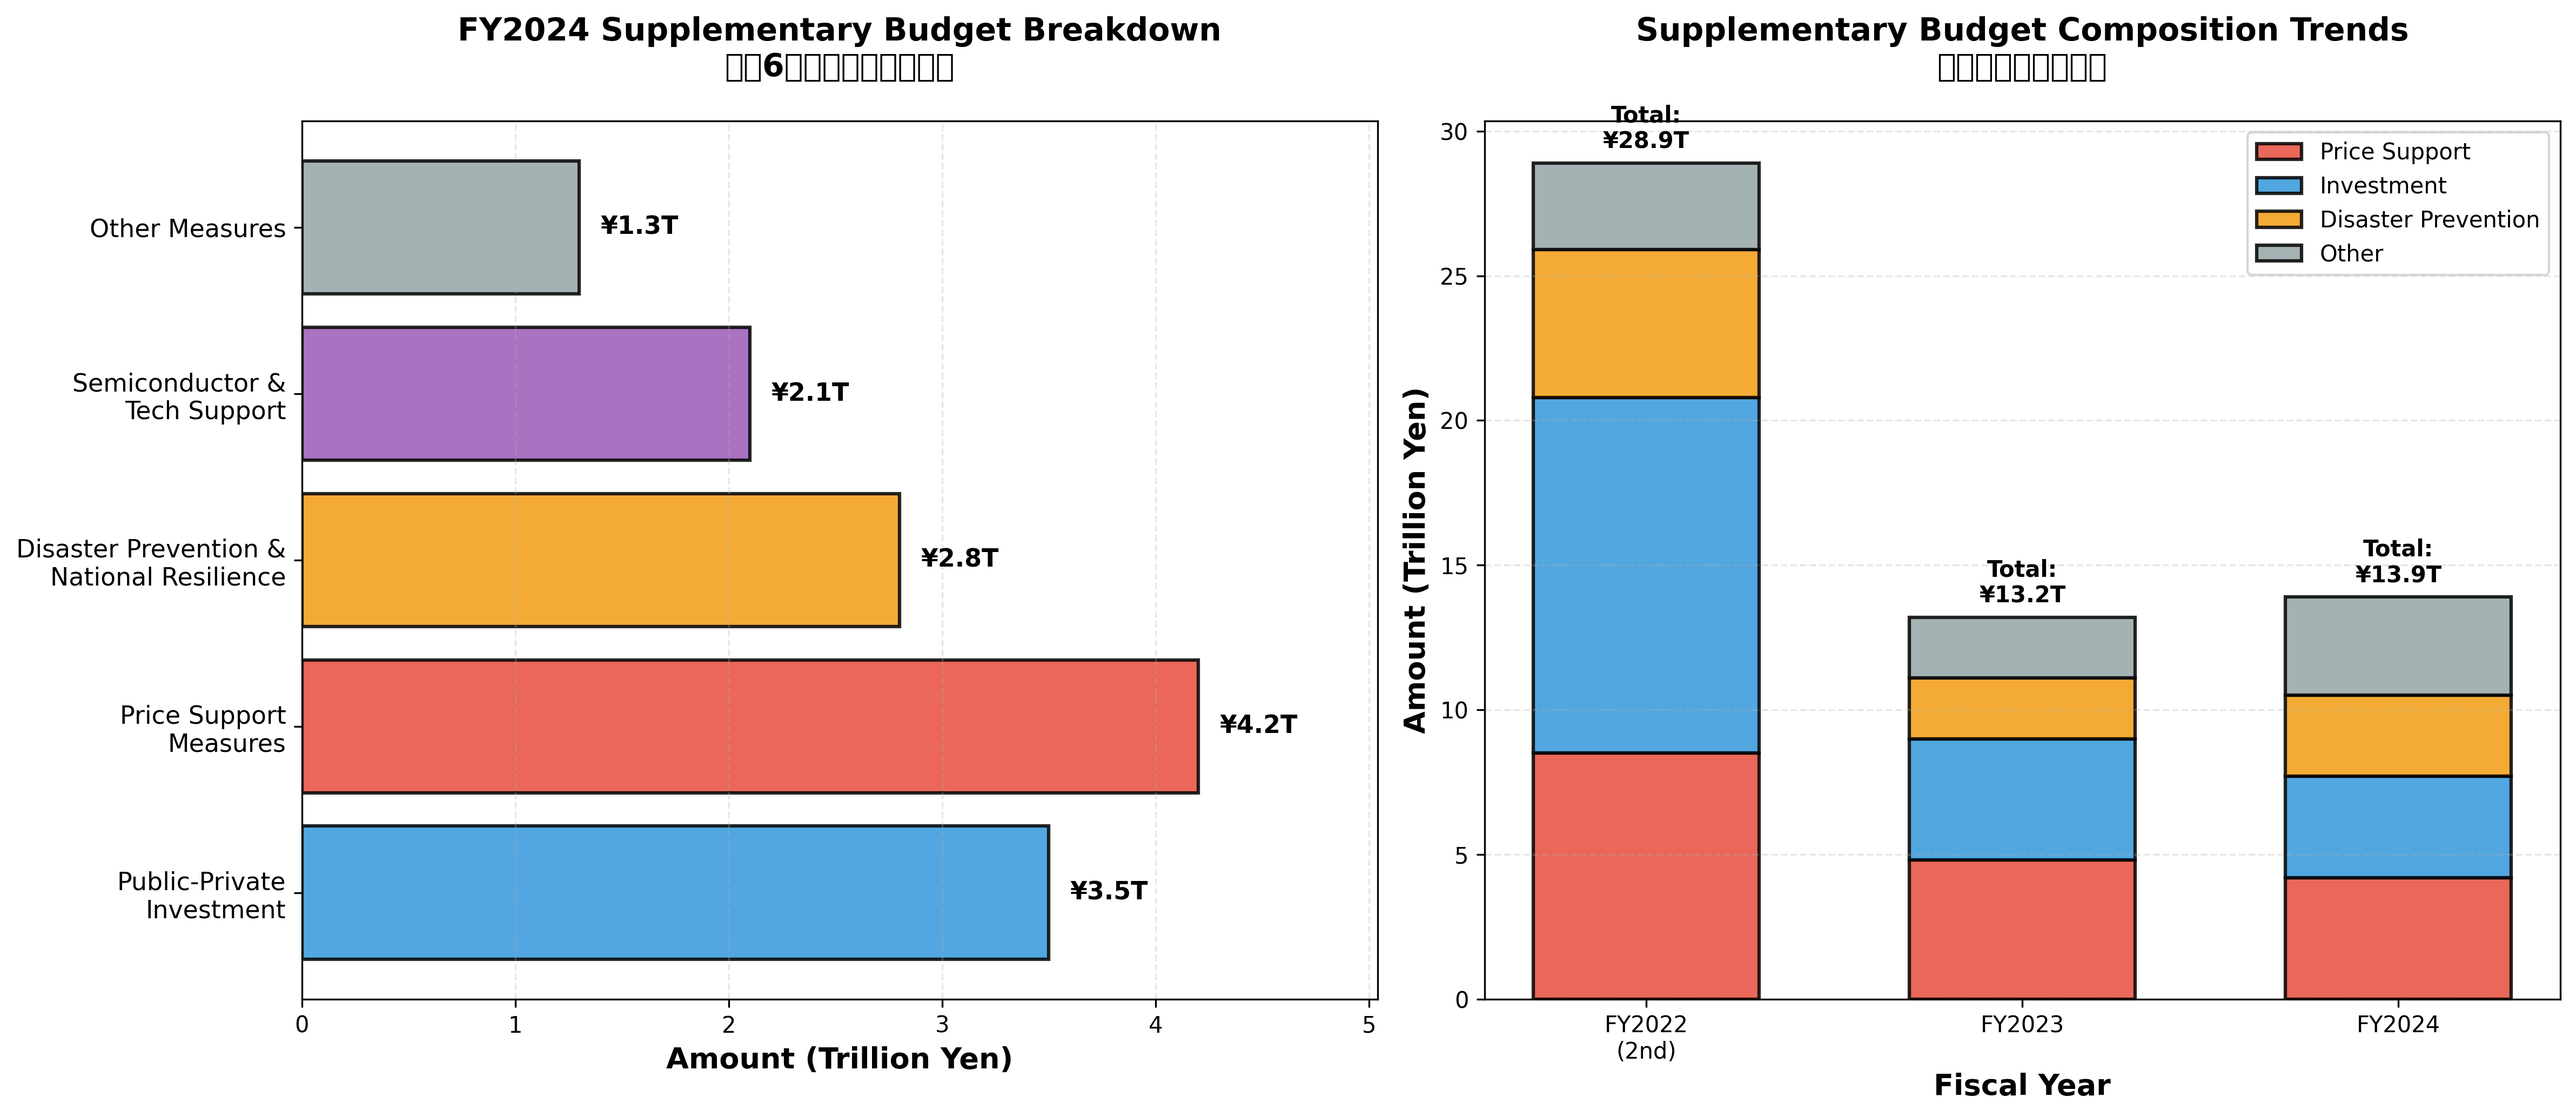
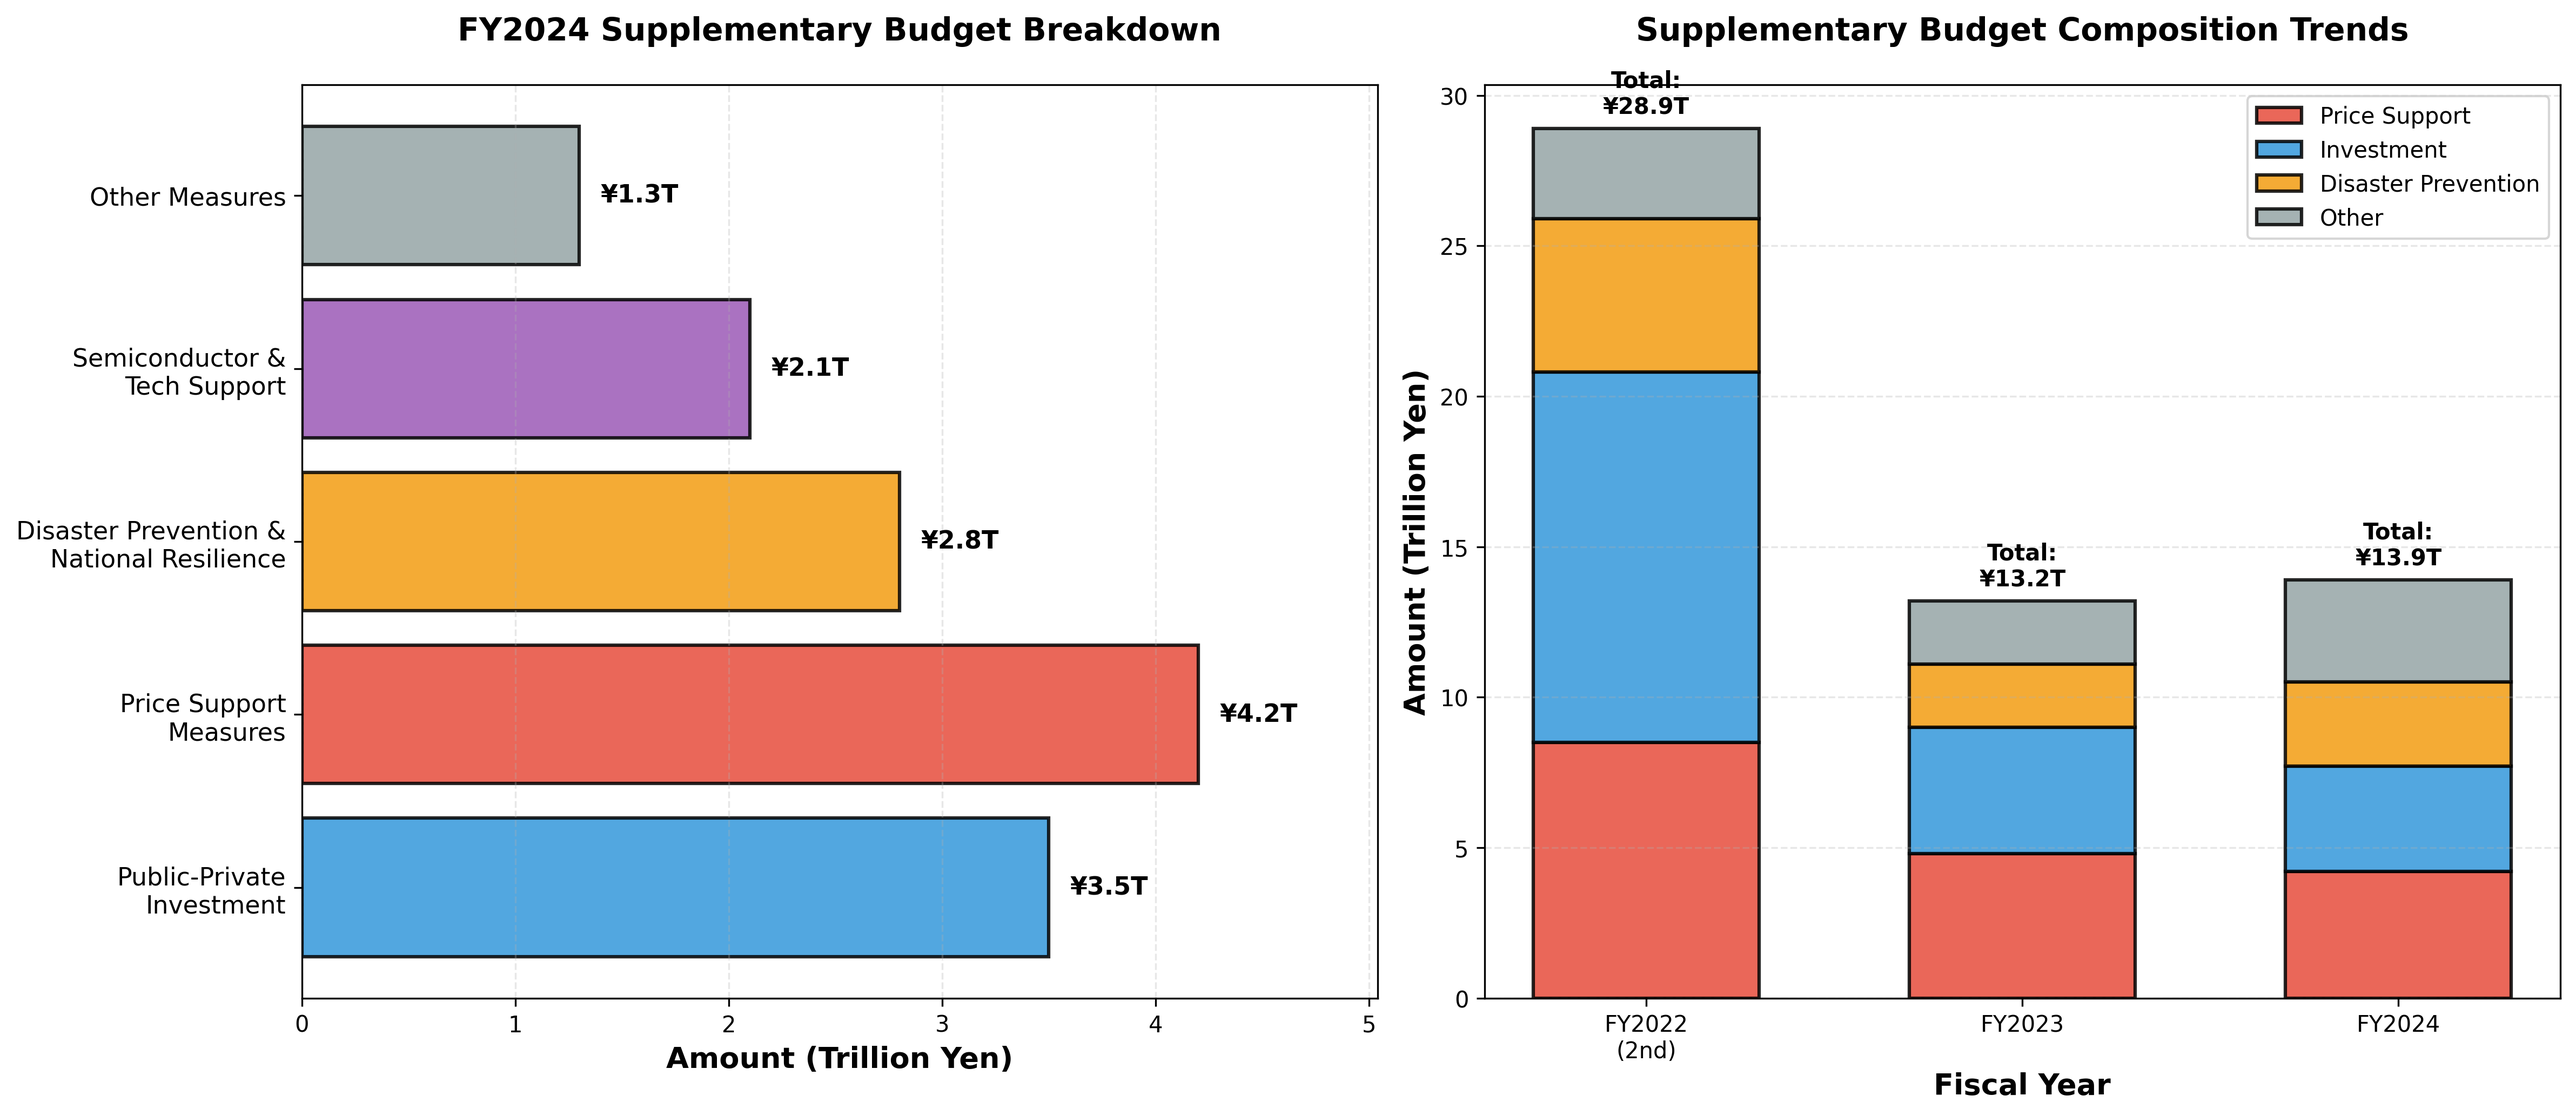
Update graphs to English version
- Remove Japanese text from graph titles to fix font rendering issues
- All graphs now display in English for better compatibility
- Update README to reflect English-only graphs
- Japanese analysis remains available in detailed report

diff --git a/最近の補正予算/04_基金分析.py b/最近の補正予算/04_基金分析.py
@@ -24,7 +24,7 @@ wedges, texts, autotexts = ax1.pie(fund_amounts, labels=fund_names,
                                      autopct=lambda pct: f'{pct:.1f}%\n(¥{pct*sum(fund_amounts)/100:.2f}T)',
                                      colors=fund_colors, startangle=45,
                                      textprops={'fontsize': 9, 'fontweight': 'bold'})
-ax1.set_title('Major Funds Established Through Supplementary Budgets\n補正予算で設置された主要基金',
+ax1.set_title('Major Funds Established Through Supplementary Budgets',
               fontsize=14, fontweight='bold', pad=20)
 
 # Right: Fund characteristics - execution timeline
@@ -59,7 +59,7 @@ for bar, size in zip(bars2, avg_size):
 ax2.set_ylabel('Number of Funds', fontsize=13, fontweight='bold', color='#3498DB')
 ax2_twin.set_ylabel('Average Size (Trillion Yen)', fontsize=13, fontweight='bold', color='#E74C3C')
 ax2.set_xlabel('Fund Type', fontsize=13, fontweight='bold')
-ax2.set_title('Fund Characteristics by Execution Timeline\n基金の執行期間別特性',
+ax2.set_title('Fund Characteristics by Execution Timeline',
               fontsize=14, fontweight='bold', pad=20)
 ax2.set_xticks(x)
 ax2.set_xticklabels(fund_types)

diff --git a/最近の補正予算/02_執行状況分析.py b/最近の補正予算/02_執行状況分析.py
@@ -13,7 +13,7 @@ fig, (ax1, ax2) = plt.subplots(1, 2, figsize=(16, 7))
 wedges, texts, autotexts = ax1.pie(amounts, labels=categories, autopct='%1.1f%%',
                                      colors=colors, startangle=90,
                                      textprops={'fontsize': 12, 'fontweight': 'bold'})
-ax1.set_title('FY2022 Supplementary Budget Execution Status\n(¥18.86T Economic Stimulus Projects)\n令和4年度補正予算執行状況',
+ax1.set_title('FY2022 Supplementary Budget Execution Status\n(¥18.86T Economic Stimulus Projects)',
               fontsize=14, fontweight='bold', pad=20)
 
 # Add amount labels
@@ -43,7 +43,7 @@ for i, (e, c) in enumerate(zip(executed_rates, carryover_rates)):
 
 ax2.set_ylabel('Percentage (%)', fontsize=13, fontweight='bold')
 ax2.set_xlabel('Fiscal Year', fontsize=13, fontweight='bold')
-ax2.set_title('Execution vs Carryover Rates Trend\n執行率と繰越率の推移',
+ax2.set_title('Execution vs Carryover Rates Trend',
               fontsize=14, fontweight='bold', pad=20)
 ax2.set_xticks(x)
 ax2.set_xticklabels(years)

diff --git a/最近の補正予算/05_残高推移.py b/最近の補正予算/05_残高推移.py
@@ -26,7 +26,7 @@ ax1.annotate('Recovery\nPhase', xy=(2021, 136.5), xytext=(2021.5, 150),
 
 ax1.set_ylabel('Cumulative Amount (Trillion Yen)', fontsize=13, fontweight='bold')
 ax1.set_xlabel('Fiscal Year', fontsize=13, fontweight='bold')
-ax1.set_title('Cumulative Supplementary Budget and Execution\n累積補正予算額と執行額',
+ax1.set_title('Cumulative Supplementary Budget and Execution',
               fontsize=15, fontweight='bold', pad=20)
 ax1.legend(loc='upper left', fontsize=11)
 ax1.grid(True, alpha=0.3, linestyle='--')
@@ -47,7 +47,7 @@ ax2.axhline(y=15, color='red', linestyle='--', linewidth=2, alpha=0.6, label='Hi
 
 ax2.set_ylabel('Unexecuted Balance (Trillion Yen)', fontsize=13, fontweight='bold')
 ax2.set_xlabel('Fiscal Year', fontsize=13, fontweight='bold')
-ax2.set_title('Unexecuted Balance Trend\n未執行残高の推移',
+ax2.set_title('Unexecuted Balance Trend',
               fontsize=15, fontweight='bold', pad=20)
 ax2.legend(loc='upper left', fontsize=11)
 ax2.grid(axis='y', alpha=0.3, linestyle='--')

diff --git a/最近の補正予算/03_支出項目内訳.py b/最近の補正予算/03_支出項目内訳.py
@@ -27,7 +27,7 @@ for i, (bar, amount) in enumerate(zip(bars, amounts)):
 ax1.set_yticks(y_pos)
 ax1.set_yticklabels(categories, fontsize=11)
 ax1.set_xlabel('Amount (Trillion Yen)', fontsize=13, fontweight='bold')
-ax1.set_title('FY2024 Supplementary Budget Breakdown\n令和6年度補正予算の内訳',
+ax1.set_title('FY2024 Supplementary Budget Breakdown',
               fontsize=14, fontweight='bold', pad=20)
 ax1.grid(axis='x', alpha=0.3, linestyle='--')
 ax1.set_xlim(0, max(amounts) * 1.2)
@@ -54,7 +54,7 @@ for i, (d, color, label) in enumerate(zip(data, colors_stack, labels)):
 
 ax2.set_ylabel('Amount (Trillion Yen)', fontsize=13, fontweight='bold')
 ax2.set_xlabel('Fiscal Year', fontsize=13, fontweight='bold')
-ax2.set_title('Supplementary Budget Composition Trends\n補正予算の構成推移',
+ax2.set_title('Supplementary Budget Composition Trends',
               fontsize=14, fontweight='bold', pad=20)
 ax2.set_xticks(x)
 ax2.set_xticklabels(years)

diff --git a/最近の補正予算/01_総額推移.py b/最近の補正予算/01_総額推移.py
@@ -24,7 +24,7 @@ for i, (bar, amount) in enumerate(zip(bars, amounts)):
 # Styling
 ax.set_ylabel('Amount (Trillion Yen)', fontsize=14, fontweight='bold')
 ax.set_xlabel('Fiscal Year', fontsize=14, fontweight='bold')
-ax.set_title('Supplementary Budget Trends (FY2016-2024)\n最近の補正予算の推移',
+ax.set_title('Supplementary Budget Trends (FY2016-2024)',
              fontsize=16, fontweight='bold', pad=20)
 ax.grid(axis='y', alpha=0.3, linestyle='--')
 ax.set_ylim(0, max(amounts) * 1.15)

diff --git a/最近の補正予算/README.md b/最近の補正予算/README.md
@@ -73,7 +73,7 @@
 
 ## 📊 グラフの見方
 
-各グラフには英語と日本語の両方でタイトルが付けられています。日本語フォントの制約により、一部の文字が正しく表示されない場合がありますが、データと分析内容は正確です。
+各グラフは英語でタイトルが付けられています。詳細な日本語の説明は「分析レポート.md」をご覧ください。
 
 ## 🛠 グラフの再生成方法
 
